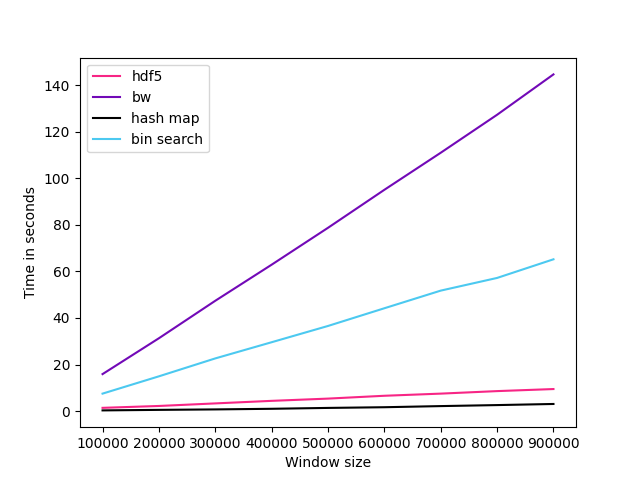
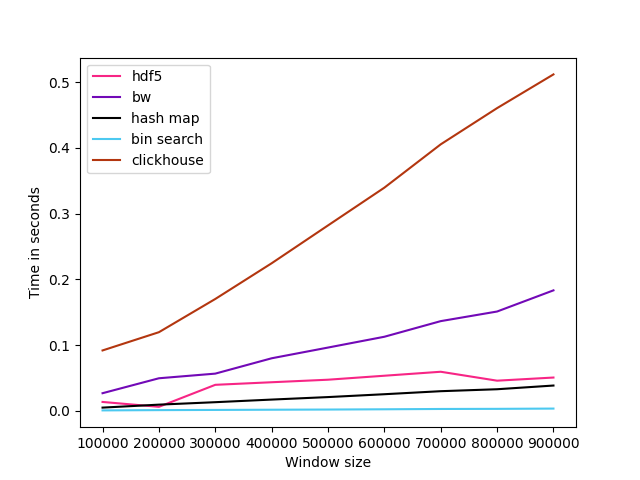
add ch

diff --git a/clickhouseexample.py b/clickhouseexample.py
@@ -1,0 +1,75 @@
+from clickhouse_driver import Client
+import os
+import pyBigWig
+import math
+from big_wig import get_bwlines_bw
+
+bw_folder = "foldbigwig"
+size_of_bw = 1
+WINDOW_PREPROCESS = 1000000
+
+client = Client(host='localhost')
+
+def prepare_for_insert(arr_before_prep):
+    ans = []
+    for arr_i in arr_before_prep:
+        cur_arr = []
+        for j in arr_i:
+            if math.isnan(j):
+                cur_arr.append(None)
+            else:
+                cur_arr.append(int(j))
+        ans.append(cur_arr)
+    return ans
+
+
+def preprocess_all():
+    client = Client(host='localhost')
+    client.execute('DROP TABLE IF EXISTS my4ReplacingMT')
+
+    client.execute(
+    'CREATE TABLE my4ReplacingMT(`key` Int64,`chr0` Nullable(Int64),`chr1` Nullable(Int64),' +
+    '`chr2` Nullable(Int64),`chr3` Nullable(Int64),`chr4` Nullable(Int64)) ENGINE = ReplacingMergeTree ORDER BY key;'
+    )
+
+    last_array_size = WINDOW_PREPROCESS
+    prev_chr_size = 0
+    # пока для одной хромосомы
+
+    for i in range(0, size_of_bw):
+        cur_start = 0
+        while last_array_size == WINDOW_PREPROCESS:
+            print(cur_start)
+            ans = get_bwlines_bw(i, cur_start, WINDOW_PREPROCESS)
+            last_array_size = len(ans[0])
+            # last_array_size = 0
+            after_prep = prepare_for_insert(ans)
+
+            insert_string = 'INSERT INTO my4ReplacingMT (key, chr0, chr1, chr2, chr3, chr4) VALUES'
+            client.execute(
+                insert_string,
+                ((x + cur_start, after_prep[0][x], after_prep[1][x], after_prep[2][x], after_prep[3][x], after_prep[4][x]) 
+                for x in range(len(after_prep[0])))
+            )
+            cur_start += WINDOW_PREPROCESS
+
+
+    print("select:")
+    print(client.execute('SELECT count(*) FROM my4ReplacingMT'))
+
+def select_count():
+    print("select count:")
+    print(client.execute('SELECT count(*) FROM my4ReplacingMT'))
+
+def get_line(i : int, start : int, WINDOW_SIZE : int):
+    return(client.execute("SELECT * FROM my4ReplacingMT where key >= %d and key < %d" % (start, start + WINDOW_SIZE)))
+
+
+if __name__ == '__main__':
+    print(get_line(0, 0, 10))
+    # select_count()
+    # client = Client(host='localhost')
+    # answer = client.execute('SELECT chr1 FROM my4ReplacingMT WHERE key > 10 and key < 30')
+    # for i in answer:
+    #     print(i[0])
+

diff --git a/big_wig/read_bw.py b/big_wig/read_bw.py
@@ -4,12 +4,19 @@ import pandas as pd
 from dataclasses import dataclass
 import os
 
-def get_bw_vector(i : int, start : int, WINDOW_SIZE : int):
+PREPROCESS_METADATA = "bin_array/bin_metadata.csv"
+df = pd.read_csv(PREPROCESS_METADATA)
+
+def get_chr_name_for_bw(i : int):
     chr_num = 'chr%s' % (i + 1)
     if i == 22:
         chr_num = 'chrY'
     elif i == 23:
         chr_num = 'chrX'
+    return chr_num
+
+def get_bw_vector(i : int, start : int, WINDOW_SIZE : int):
+    chr_num = get_chr_name_for_bw(i)
 
     folder_path = "foldbigwig"
     result_vector = []
@@ -19,16 +26,24 @@ def get_bw_vector(i : int, start : int, WINDOW_SIZE : int):
             bigwig_file = os.path.join(folder_path, filename)
             bigwig = pyBigWig.open(bigwig_file)
             
-            bw_values = bigwig.values(chr_num, start, start + WINDOW_SIZE)  # Пример, можно использовать любой хромосомный регион
-            result_vector.append(bw_values)
-            
+            chrom_sizes = bigwig.chroms()
+            from_bound = start
+            to_bound = start + WINDOW_SIZE
+            if (chrom_sizes[chr_num] < to_bound):
+                to_bound = chrom_sizes[chr_num]
+            if (chrom_sizes[chr_num] > from_bound):
+                bw_values = bigwig.values(chr_num, from_bound, to_bound)  # Пример, можно использовать любой хромосомный регион
+                result_vector.append(bw_values)
+            else:
+                result_vector.append([])
+
             bigwig.close()
     
     return result_vector
 
 
 if __name__ == '__main__':
-    print(get_bw_vector(22, 53533, 10))
+    print(get_bw_vector(0, 0, 10))
     # file_path = 'interval.all.obs.bw'
     # bw_file = pyBigWig.open(file_path)
     # chromosomes = bigwig.chroms()

diff --git a/with_ch_testbw.py b/with_ch_testbw.py
@@ -1,0 +1,48 @@
+import time
+import random
+import matplotlib.pyplot as plt
+from big_wig import get_bwlines_bw, get_hdf5lines_bw
+from big_wig_hash_map import get_lines_bw_3
+from bin_search_big_wig import get_lines_bwbs
+from clickhouseexample import get_line
+
+functions = [get_hdf5lines_bw, get_bwlines_bw, get_lines_bw_3, get_lines_bwbs, get_line]
+# functions = [get_lines_4, get_lines_8, get_lines_7]
+
+def get_time():
+    global WINDOW_SIZE 
+    times = [[] for _ in range(len(functions))]
+    sizes = []
+    for i in range(1, 10):
+        WINDOW_SIZE = 100000 * i
+        print(WINDOW_SIZE)
+        
+        fun_num = 0
+        for fun in functions:
+            start_time = time.time()
+            for _ in range(0, 1):
+                start_pos = random.randint(0, 20000000)
+                chr = random.randint(0, 0)
+                ans = fun(chr, start_pos, WINDOW_SIZE)
+        
+            res_time = time.time() - start_time
+            times[fun_num].append(res_time)
+            print("--- %s seconds ---" % res_time)
+            fun_num += 1
+        sizes.append(WINDOW_SIZE)
+
+    plt.ylabel('Time in seconds')
+    plt.xlabel('Window size') 
+    print(sizes)
+    plt.plot(sizes, times[0], color="#F72585", label='hdf5')
+    plt.plot(sizes, times[1], color="#7209B7", label='bw')
+    plt.plot(sizes, times[2], color="black", label='hash map')
+    plt.plot(sizes, times[3], color="#4CC9F0", label='bin search')
+    plt.plot(sizes, times[4], color="#b3360f", label='clickhouse')
+    plt.legend()
+    plt.savefig('plot.png')
+
+if __name__ == '__main__':
+    get_time()
+
+    # print(get_lines_4(0, 0, 10))

diff --git a/bin_search_big_wig/preprocess.py b/bin_search_big_wig/preprocess.py
@@ -25,6 +25,7 @@ def preprocess():
 
     for filename in file_paths:
         if filename.endswith(".bw"):
+            print("current file: ", filename)
             bw_path = os.path.join(filename)
 
             bw = pyBigWig.open(bw_path)
@@ -57,11 +58,12 @@ def preprocess():
             
             
             file_basename = os.path.basename(filename)
-            output_path = os.path.join(output_folder, filename.replace(".bw", "_data"))
+            output_path = os.path.join(output_folder, file_basename.replace(".bw", "_data"))
             np.save(output_path + '_positions.npy', np.array(positions, dtype=np.int64))
             np.save(output_path + '_values.npy', np.array(values_ziped, dtype=np.int64))
             
             bw.close()
+
 
 if __name__ == '__main__':
     preprocess()

diff --git a/big_wig_hash_map/preprocess_hash_map.py b/big_wig_hash_map/preprocess_hash_map.py
@@ -18,7 +18,6 @@ def prerpocess_all():
             file_paths.append(line.strip())
     i = 0        
     for file_name in file_paths:
-        print(file_name)
         preprocess_bw(file_name, i)
         i += 1
 

diff --git a/bin_search_big_wig/read_bin_seach.py b/bin_search_big_wig/read_bin_seach.py
@@ -67,4 +67,4 @@ def bin_search(positions, cur):
 
 if __name__ == '__main__':
     # 23   3976130   100000
-    print(get_lines(2, 180749, 100))
+    print(get_lines(2, 180749, 10))
